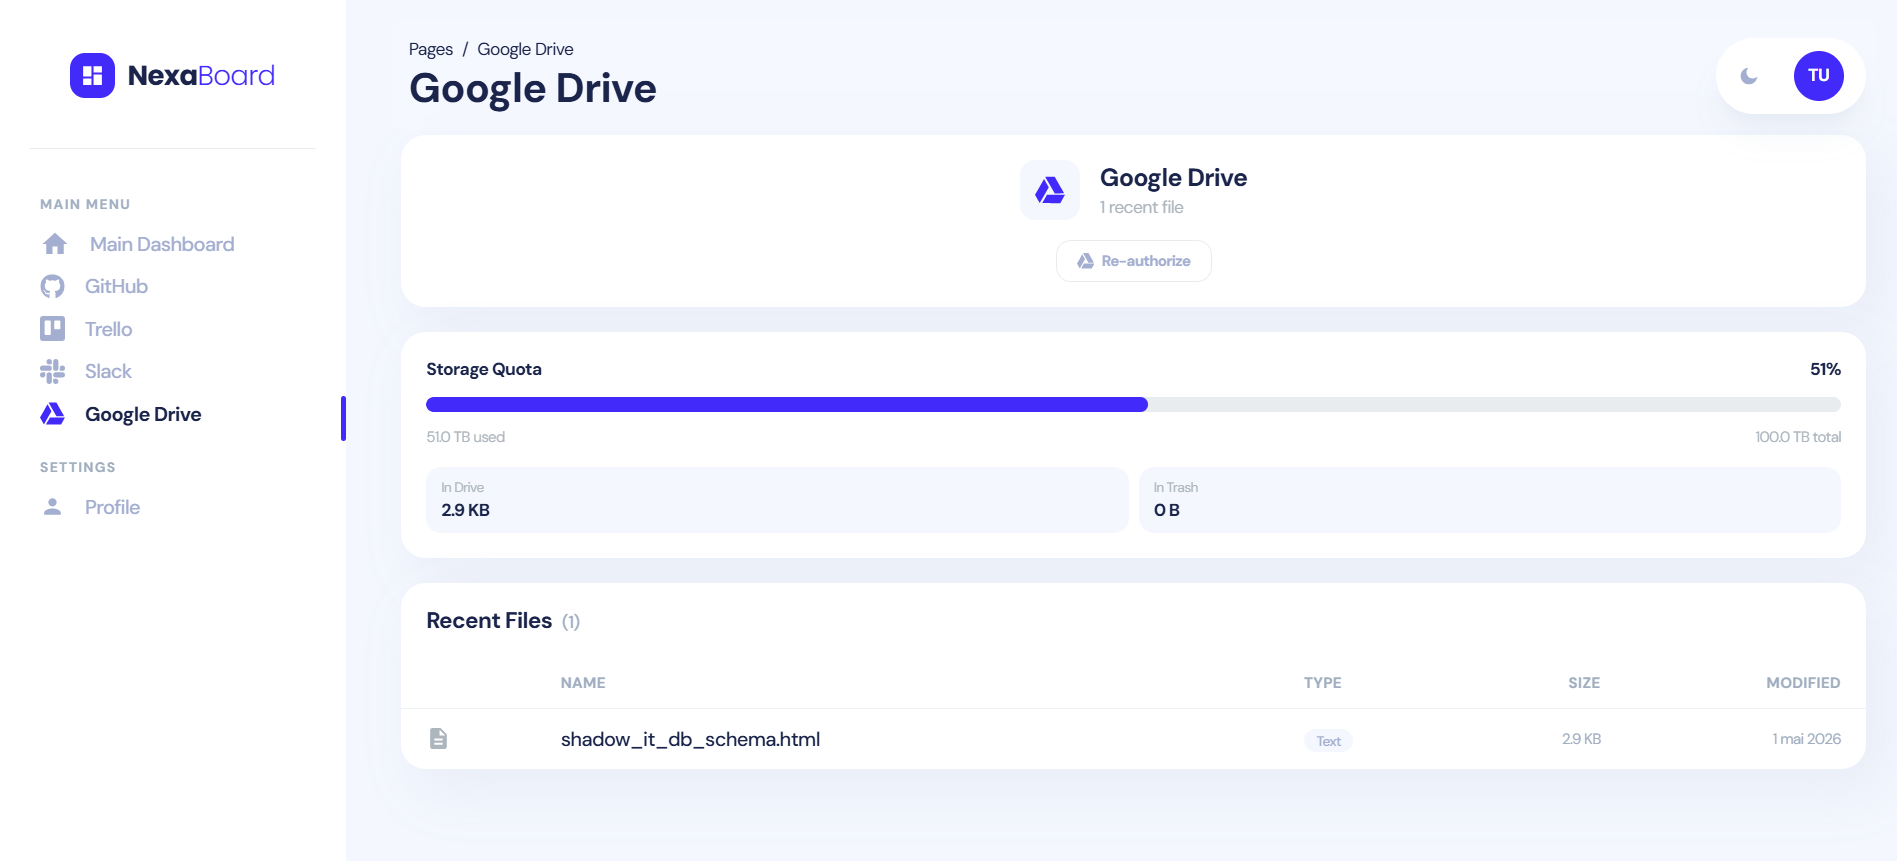
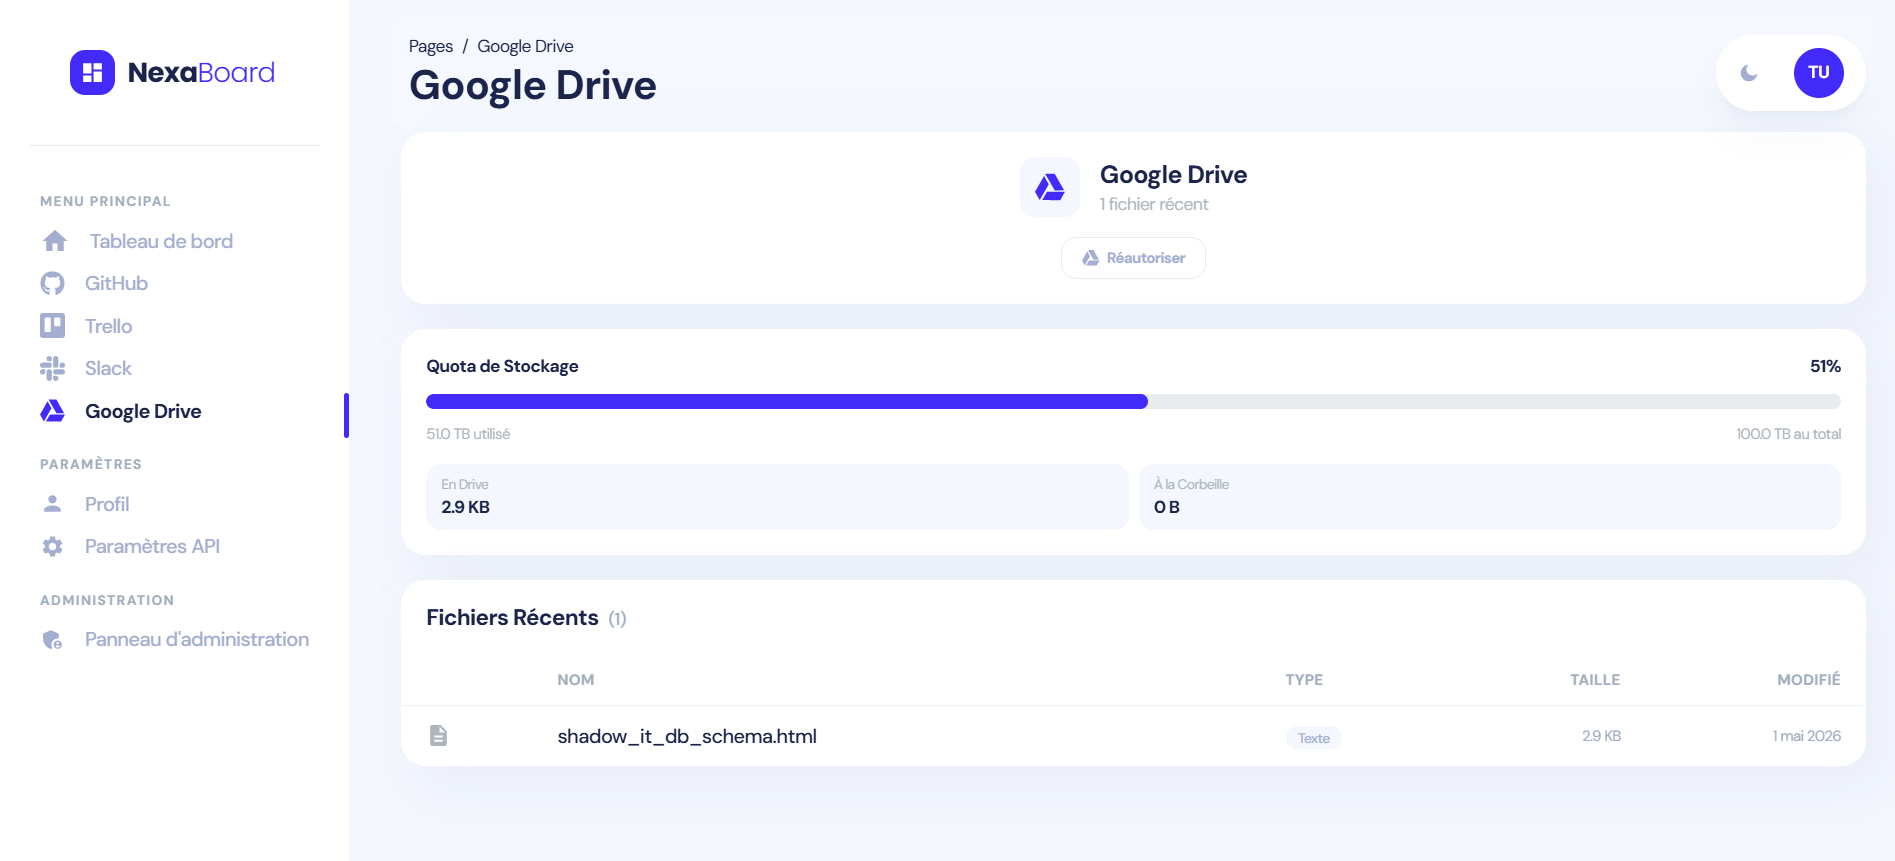
bug fix and README.MD update

diff --git a/frontend/src/views/admin/google/index.jsx b/frontend/src/views/admin/google/index.jsx
@@ -23,18 +23,18 @@ import { useAuth } from "context/AuthContext";
 /* ── MIME type → icon + label ── */
 const MIME_MAP = {
   "application/vnd.google-apps.document":     { icon: MdDescription,    label: "Doc",          color: "text-blue-500" },
-  "application/vnd.google-apps.spreadsheet":  { icon: MdTableChart,     label: "Sheet",        color: "text-green-500" },
-  "application/vnd.google-apps.presentation": { icon: MdSlideshow,      label: "Slide",        color: "text-yellow-500" },
-  "application/vnd.google-apps.folder":       { icon: MdFolder,         label: "Folder",       color: "text-yellow-400" },
-  "application/vnd.google-apps.form":         { icon: MdDescription,    label: "Form",         color: "text-purple-500" },
+  "application/vnd.google-apps.spreadsheet":  { icon: MdTableChart,     label: "Feuille",      color: "text-green-500" },
+  "application/vnd.google-apps.presentation": { icon: MdSlideshow,      label: "Diapo",        color: "text-yellow-500" },
+  "application/vnd.google-apps.folder":       { icon: MdFolder,         label: "Dossier",      color: "text-yellow-400" },
+  "application/vnd.google-apps.form":         { icon: MdDescription,    label: "Formulaire",   color: "text-purple-500" },
   "application/pdf":                          { icon: MdPictureAsPdf,   label: "PDF",          color: "text-red-500" },
   "image/jpeg":                               { icon: MdImage,          label: "JPEG",         color: "text-pink-400" },
   "image/png":                                { icon: MdImage,          label: "PNG",          color: "text-pink-400" },
   "image/gif":                                { icon: MdImage,          label: "GIF",          color: "text-pink-400" },
   "image/svg+xml":                            { icon: MdImage,          label: "SVG",          color: "text-pink-400" },
-  "video/mp4":                                { icon: MdVideoFile,      label: "Video",        color: "text-purple-400" },
+  "video/mp4":                                { icon: MdVideoFile,      label: "Vidéo",        color: "text-purple-400" },
   "audio/mpeg":                               { icon: MdAudioFile,      label: "Audio",        color: "text-indigo-400" },
-  "text/plain":                               { icon: MdDescription,    label: "Text",         color: "text-gray-500" },
+  "text/plain":                               { icon: MdDescription,    label: "Texte",        color: "text-gray-500" },
   "text/csv":                                 { icon: MdTableChart,     label: "CSV",          color: "text-green-400" },
   "application/json":                         { icon: MdCode,           label: "JSON",         color: "text-orange-400" },
   "application/zip":                          { icon: MdArchive,        label: "ZIP",          color: "text-gray-500" },
@@ -43,10 +43,10 @@ const MIME_MAP = {
 function getMimeInfo(mimeType) {
   if (MIME_MAP[mimeType]) return MIME_MAP[mimeType];
   if (mimeType?.startsWith("image/"))  return { icon: MdImage,           label: "Image", color: "text-pink-400" };
-  if (mimeType?.startsWith("video/"))  return { icon: MdVideoFile,       label: "Video", color: "text-purple-400" };
+  if (mimeType?.startsWith("video/"))  return { icon: MdVideoFile,       label: "Vidéo", color: "text-purple-400" };
   if (mimeType?.startsWith("audio/"))  return { icon: MdAudioFile,       label: "Audio", color: "text-indigo-400" };
-  if (mimeType?.startsWith("text/"))   return { icon: MdDescription,     label: "Text",  color: "text-gray-500" };
-  return { icon: MdInsertDriveFile, label: "File", color: "text-gray-400" };
+  if (mimeType?.startsWith("text/"))   return { icon: MdDescription,     label: "Texte",  color: "text-gray-500" };
+  return { icon: MdInsertDriveFile, label: "Fichier", color: "text-gray-400" };
 }
 
 /* ── Helpers ── */
@@ -79,7 +79,7 @@ function QuotaBar({ quota }) {
     <Card extra="p-5 flex flex-col gap-3">
       <div className="flex items-center justify-between">
         <h4 className="text-sm font-bold text-navy-700 dark:text-white">
-          Storage Quota
+          Quota de Stockage
         </h4>
         <span className="text-sm font-semibold text-navy-700 dark:text-white">
           {pct !== null ? `${pct}%` : "—"}
@@ -95,24 +95,24 @@ function QuotaBar({ quota }) {
       </div>
 
       <div className="flex items-center justify-between text-xs text-gray-500">
-        <span>{formatBytes(used)} used</span>
+        <span>{formatBytes(used)} utilisé</span>
         {limit ? (
-          <span>{formatBytes(limit)} total</span>
+          <span>{formatBytes(limit)} au total</span>
         ) : (
-          <span>Unlimited</span>
+          <span>Illimité</span>
         )}
       </div>
 
       {/* Breakdown */}
       <div className="grid grid-cols-2 gap-2 pt-1">
         <div className="rounded-xl bg-lightPrimary px-3 py-2 dark:bg-navy-700">
-          <p className="text-[11px] text-gray-500">In Drive</p>
+          <p className="text-[11px] text-gray-500">En Drive</p>
           <p className="text-sm font-bold text-navy-700 dark:text-white">
             {formatBytes(quota.usage_in_drive)}
           </p>
         </div>
         <div className="rounded-xl bg-lightPrimary px-3 py-2 dark:bg-navy-700">
-          <p className="text-[11px] text-gray-500">In Trash</p>
+          <p className="text-[11px] text-gray-500">À la Corbeille</p>
           <p className="text-sm font-bold text-navy-700 dark:text-white">
             {formatBytes(quota.usage_in_drive_trash)}
           </p>
@@ -215,10 +215,10 @@ function ConnectPrompt({ onConnect, connecting }) {
       </div>
       <div className="flex flex-col items-center gap-1 text-center">
         <h3 className="text-lg font-bold text-navy-700 dark:text-white">
-          Google Drive not connected
+          Google Drive non connecté
         </h3>
         <p className="max-w-xs text-sm text-gray-500">
-          Authorize read-only access to your Drive to view files and storage usage.
+          Autorisez l'accès en lecture seule à votre Drive pour voir les fichiers et l'utilisation du stockage.
         </p>
       </div>
       <button
@@ -227,7 +227,7 @@ function ConnectPrompt({ onConnect, connecting }) {
         className="flex items-center gap-2 rounded-xl bg-brand-500 px-6 py-3 text-sm font-semibold text-white transition hover:bg-brand-600 active:bg-brand-700 disabled:opacity-60"
       >
         <SiGoogledrive className="h-4 w-4" />
-        {connecting ? "Redirecting…" : "Connect Google Drive"}
+        {connecting ? "Redirection…" : "Connecter Google Drive"}
       </button>
     </Card>
   );
@@ -314,9 +314,9 @@ export default function GoogleDrivePage() {
               Google Drive
             </h3>
             <p className="text-sm text-gray-500">
-              {connected === null && "Checking connection…"}
-              {connected === true && !loadingFiles && `${files.length} recent file${files.length !== 1 ? "s" : ""}`}
-              {connected === false && "Not connected"}
+              {connected === null && "Vérification de la connexion…"}
+              {connected === true && !loadingFiles && `${files.length} fichier${files.length !== 1 ? "s" : ""} récent${files.length !== 1 ? "s" : ""}`}
+              {connected === false && "Non connecté"}
             </p>
           </div>
         </div>
@@ -329,7 +329,7 @@ export default function GoogleDrivePage() {
             className="flex items-center gap-1.5 rounded-xl border border-gray-200 px-4 py-2 text-xs font-semibold text-gray-600 transition hover:bg-lightPrimary dark:border-white/10 dark:text-gray-400 dark:hover:bg-navy-700"
           >
             <SiGoogledrive className="h-3.5 w-3.5" />
-            {connecting ? "Redirecting…" : "Re-authorize"}
+            {connecting ? "Redirection…" : "Réautoriser"}
           </button>
         )}
       </Card>
@@ -337,7 +337,7 @@ export default function GoogleDrivePage() {
       {/* ── Just-connected banner ── */}
       {justConnected && (
         <div className="rounded-xl bg-green-50 px-4 py-3 text-sm font-medium text-green-700 dark:bg-green-900/20 dark:text-green-400">
-          Google Drive connected successfully!
+          Google Drive connecté avec succès !
         </div>
       )}
 
@@ -362,7 +362,7 @@ export default function GoogleDrivePage() {
           <Card extra="overflow-hidden">
             <div className="flex items-center justify-between px-5 py-4">
               <h4 className="text-lg font-bold text-navy-700 dark:text-white">
-                Recent Files
+                Fichiers Récents
                 {files.length > 0 && (
                   <span className="ml-2 text-sm font-medium text-gray-400">
                     ({files.length})
@@ -386,7 +386,7 @@ export default function GoogleDrivePage() {
             ) : files.length === 0 ? (
               <div className="flex flex-col items-center gap-3 py-12 text-gray-300 dark:text-gray-600">
                 <SiGoogledrive className="h-10 w-10" />
-                <p className="text-sm">No files found in your Drive.</p>
+                <p className="text-sm">Aucun fichier trouvé dans votre Drive.</p>
               </div>
             ) : (
               <div className="overflow-x-auto">
@@ -395,16 +395,16 @@ export default function GoogleDrivePage() {
                     <tr className="border-b border-gray-100 dark:border-white/5">
                       <th className="py-3 pl-5 pr-3 text-left" />
                       <th className="py-3 pr-4 text-left text-xs font-semibold uppercase tracking-wide text-gray-400">
-                        Name
+                        Nom
                       </th>
                       <th className="hidden py-3 pr-4 text-left text-xs font-semibold uppercase tracking-wide text-gray-400 md:table-cell">
                         Type
                       </th>
                       <th className="hidden py-3 pr-4 text-right text-xs font-semibold uppercase tracking-wide text-gray-400 sm:table-cell">
-                        Size
+                        Taille
                       </th>
                       <th className="py-3 pr-5 text-right text-xs font-semibold uppercase tracking-wide text-gray-400">
-                        Modified
+                        Modifié
                       </th>
                     </tr>
                   </thead>

diff --git a/frontend/src/views/admin/profile/index.jsx b/frontend/src/views/admin/profile/index.jsx
@@ -20,7 +20,7 @@ function AccountInfo({ user }) {
   const fields = [
     {
       icon: <MdPerson className="h-4 w-4" />,
-      label: "Full Name",
+      label: "Nom complet",
       value: user?.name ?? "—",
     },
     {
@@ -40,7 +40,7 @@ function AccountInfo({ user }) {
   return (
     <Card extra="w-full h-full p-5 flex flex-col gap-4">
       <h4 className="text-xl font-bold text-navy-700 dark:text-white">
-        Account Info
+        Infos Compte
       </h4>
       <div className="flex flex-col gap-3">
         {fields.map(({ icon, label, value }) => (
@@ -143,7 +143,7 @@ function ConnectedServicesDetails({ serviceStats, loadingStats }) {
       icon: <FaGithub className="h-5 w-5" />,
       color: "bg-gray-800",
       description: serviceStats.github
-        ? `${serviceStats.github.repos.toLocaleString()} repos · ${serviceStats.github.stars.toLocaleString()} stars`
+        ? `${serviceStats.github.repos.toLocaleString()} dépôt${serviceStats.github.repos !== 1 ? "s" : ""} · ${serviceStats.github.stars.toLocaleString()} étoile${serviceStats.github.stars !== 1 ? "s" : ""}`
         : null,
     },
     {
@@ -152,7 +152,7 @@ function ConnectedServicesDetails({ serviceStats, loadingStats }) {
       icon: <SiTrello className="h-5 w-5" />,
       color: "bg-blue-500",
       description: serviceStats.trello
-        ? `${serviceStats.trello.boards.toLocaleString()} board${serviceStats.trello.boards !== 1 ? "s" : ""}`
+        ? `${serviceStats.trello.boards.toLocaleString()} tableau${serviceStats.trello.boards !== 1 ? "x" : ""}`
         : null,
     },
     {
@@ -161,7 +161,7 @@ function ConnectedServicesDetails({ serviceStats, loadingStats }) {
       icon: <SiSlack className="h-5 w-5" />,
       color: "bg-[#E01E5A]",
       description: serviceStats.slack
-        ? `${serviceStats.slack.channels.toLocaleString()} channel${serviceStats.slack.channels !== 1 ? "s" : ""}`
+        ? `${serviceStats.slack.channels.toLocaleString()} ${serviceStats.slack.channels !== 1 ? "canaux" : "canal"}`
         : null,
     },
     {
@@ -170,7 +170,7 @@ function ConnectedServicesDetails({ serviceStats, loadingStats }) {
       icon: <SiGoogledrive className="h-5 w-5" />,
       color: "bg-brand-500",
       description: serviceStats.drive
-        ? `${serviceStats.drive.files.toLocaleString()} file${serviceStats.drive.files !== 1 ? "s" : ""} in Drive`
+        ? `${serviceStats.drive.files.toLocaleString()} fichier${serviceStats.drive.files !== 1 ? "s" : ""} en Drive`
         : null,
     },
   ];

diff --git a/frontend/src/views/admin/marketplace/index.jsx b/frontend/src/views/admin/marketplace/index.jsx
@@ -24,7 +24,7 @@ const Marketplace = () => {
         {/* NFt Header */}
         <div className="mb-4 mt-5 flex flex-col justify-between px-4 md:flex-row md:items-center">
           <h4 className="ml-1 text-2xl font-bold text-navy-700 dark:text-white">
-            Trending NFTs
+            NFTs Tendances
           </h4>
           <ul className="mt-4 flex items-center justify-between md:mt-0 md:justify-center md:!gap-5 2xl:!gap-12">
             <li>
@@ -40,7 +40,7 @@ const Marketplace = () => {
                 className="text-base font-medium text-brand-500 hover:text-brand-500 dark:text-white"
                 href=" "
               >
-                Music
+                Musique
               </a>
             </li>
             <li>
@@ -56,7 +56,7 @@ const Marketplace = () => {
                 className="text-base font-medium text-brand-500 hover:text-brand-500 dark:text-white"
                 href=" "
               >
-                <a href=" ">Sports</a>
+                <a href=" ">Sport</a>
               </a>
             </li>
           </ul>
@@ -90,7 +90,7 @@ const Marketplace = () => {
         {/* Recenlty Added setion */}
         <div className="mb-5 mt-5 flex items-center justify-between px-[26px]">
           <h4 className="text-2xl font-bold text-navy-700 dark:text-white">
-            Recently Added
+            Ajouté Récemment
           </h4>
         </div>
 

diff --git a/frontend/src/views/admin/profile/components/General.jsx b/frontend/src/views/admin/profile/components/General.jsx
@@ -9,10 +9,10 @@ const General = () => {
       {/* Header */}
       <div className="mb-8 mt-2 w-full">
         <h4 className="px-2 text-xl font-bold text-navy-700 dark:text-white">
-          General Information
+          Informations Générales
         </h4>
         <p className="mt-2 px-2 text-base text-gray-600">
-          Account details for your NexaBoard workspace.
+          Détails du compte pour votre espace de travail NexaBoard.
         </p>
       </div>
 
@@ -26,7 +26,7 @@ const General = () => {
         </div>
 
         <div className="flex flex-col items-start justify-center rounded-2xl bg-white bg-clip-border px-3 py-4 shadow-3xl shadow-shadow-500 dark:!bg-navy-700 dark:shadow-none">
-          <p className="text-sm text-gray-600">Full Name</p>
+          <p className="text-sm text-gray-600">Nom complet</p>
           <p className="text-base font-medium text-navy-700 dark:text-white">
             {user?.name ?? "—"}
           </p>

diff --git a/frontend/src/views/admin/settings/index.jsx b/frontend/src/views/admin/settings/index.jsx
@@ -221,7 +221,7 @@ export default function SettingsPage() {
       <div className="flex items-center justify-between">
         <div>
           <h2 className="text-2xl font-bold text-navy-700 dark:text-white">
-            API Settings
+            Paramètres API
           </h2>
           <p className="mt-1 text-sm text-gray-500">
             Configurez vos clés d'accès pour chaque service intégré.
